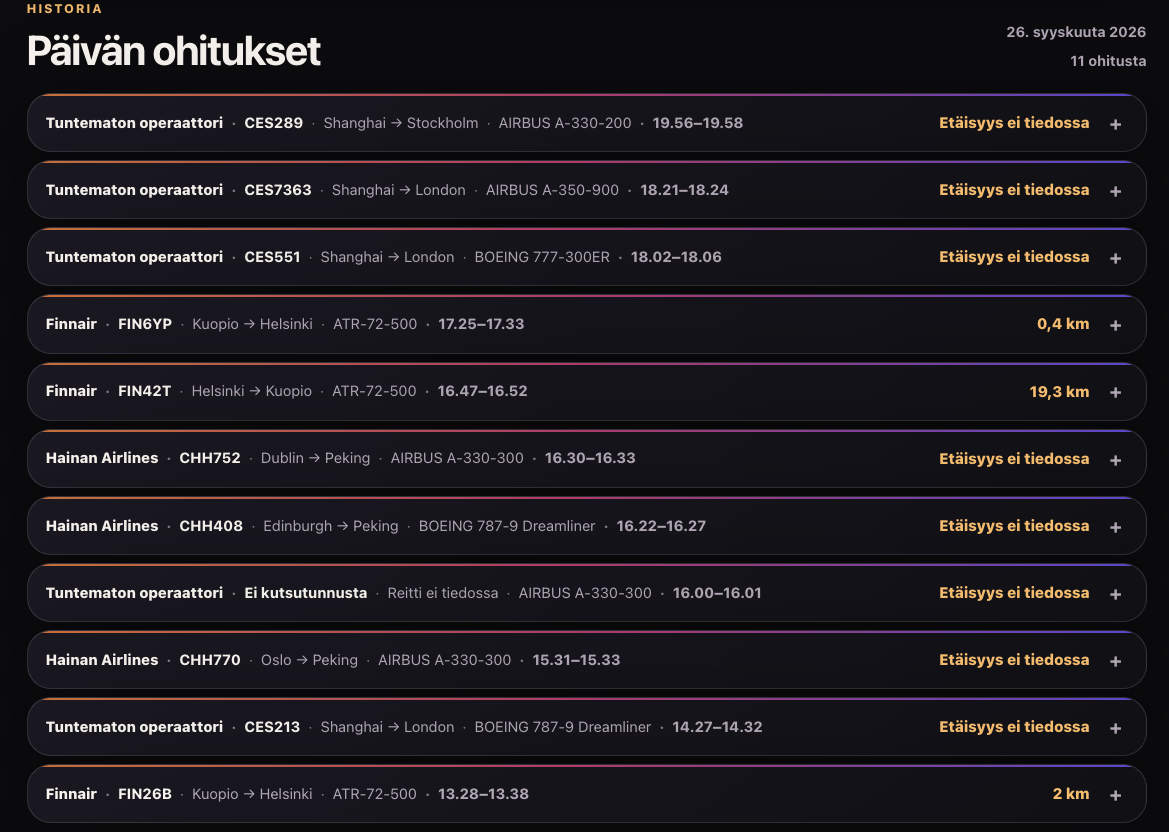
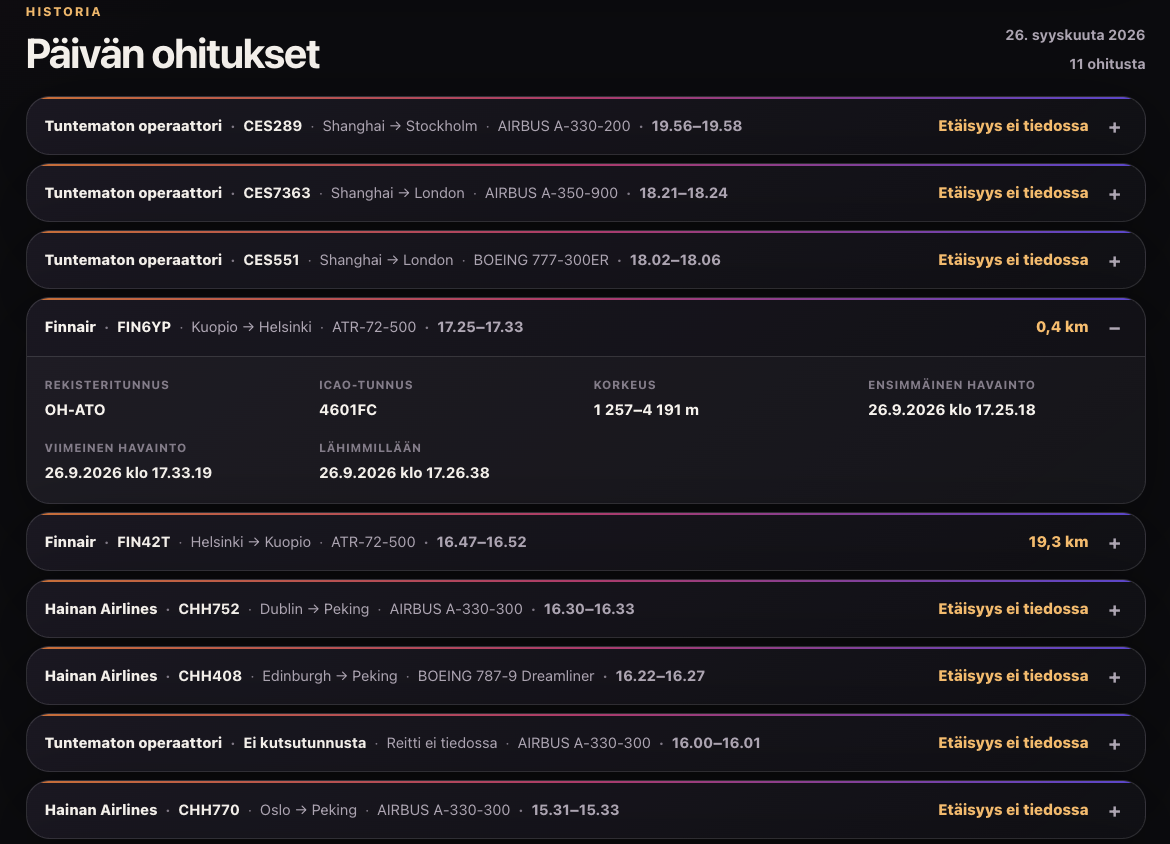
Päivitä ohituskuva avattuun näkymään

diff --git a/projektit.html b/projektit.html
@@ -119,11 +119,11 @@
                 </figure>
                 <p>Päivän ohitukset näkyvät omana listanaan. Samasta koneesta voi kertyä päivän aikana useampi ohitus, eikä jokaiselle saada etäisyyttä.</p>
                 <figure class="project-example">
-                  <a href="images/skyscope-paivan-ohitukset.png" target="_blank" rel="noopener" aria-label="Avaa päivän ohitusten kuvakaappaus suurempana">
-                    <img src="images/skyscope-paivan-ohitukset.png" alt="SkyScopen Päivän ohitukset -osio, jossa näkyy 11 ohitusta." width="1169" height="832" loading="lazy" decoding="async">
+                  <a href="images/skyscope-paivan-ohitukset.png?v=20260926-2" target="_blank" rel="noopener" aria-label="Avaa päivän ohitusten kuvakaappaus suurempana">
+                    <img src="images/skyscope-paivan-ohitukset.png?v=20260926-2" alt="SkyScopen Päivän ohitukset -lista, jossa FIN6YP-ohituksen tarkemmat tiedot on avattu." width="1170" height="844" loading="lazy" decoding="async">
                     <span>Avaa suurempana ↗</span>
                   </a>
-                  <figcaption>Listassa näkyvät havaittujen ohitusten ajat. Etäisyys puuttuu, jos koneelta ei saatu sijaintia.</figcaption>
+                  <figcaption>Tässä yksi päivän ohituksista on avattu. Sen alta näkee koneen tunnisteet, korkeuden sekä havainnon alku- ja loppuajan.</figcaption>
                 </figure>
                 <p>Joillekin lennoille näkyy myös tietokannasta löytyvä reitti. Se on kutsutunnukseen liitetty taustatieto, ei tämän lennon vahvistettu lentosuunnitelma. Jos reittiä ei löydy, sitä ei keksitä.</p>
                 <p>Yhteyden tila on tärkeä osa sivua. Jos vastaanottimelta ei tule uusia tietoja, se näkyy käyttäjälle. Näin vanhoja havaintoja ei ole tarkoitus lukea vahingossa tämänhetkiseksi tilanteeksi.</p>
@@ -234,11 +234,11 @@
                   </figure>
                   <p>Sivulla on erilliset listat koneille, joiden sijainti on saatavilla, ja koneille, joiden sijaintia ei ole. Päivän ohituksissa yhden rivin voi avata ja sulkea ilman että muu lista katoaa. Avatusta rivistä näkee esimerkiksi havaintojen alku- ja loppuajan, lähimmän hetken sekä korkeuden vaihteluvälin. Ajat näytetään Suomen aikavyöhykkeessä.</p>
                   <figure class="project-example">
-                    <a href="images/skyscope-paivan-ohitukset.png" target="_blank" rel="noopener" aria-label="Avaa päivän ohitusten kuvakaappaus suurempana">
-                      <img src="images/skyscope-paivan-ohitukset.png" alt="Päivän ohitusten lista, jossa osa etäisyyksistä puuttuu sijaintitiedon puuttuessa." width="1169" height="832" loading="lazy" decoding="async">
+                    <a href="images/skyscope-paivan-ohitukset.png?v=20260926-2" target="_blank" rel="noopener" aria-label="Avaa päivän ohitusten kuvakaappaus suurempana">
+                      <img src="images/skyscope-paivan-ohitukset.png?v=20260926-2" alt="Päivän ohitusten lista, jossa FIN6YP-riviltä näkyvät tunnisteet, korkeus ja havaintojen ajat." width="1170" height="844" loading="lazy" decoding="async">
                       <span>Avaa suurempana ↗</span>
                     </a>
-                    <figcaption>Yksi rivi tarkoittaa yhtä muodostettua ohitusta. Riviä avaamalla näkee tarkemmat havainnot. Jos sijaintia ei saatu, etäisyyden kohdalla lukee ”Etäisyys ei tiedossa”.</figcaption>
+                    <figcaption>Avattu rivi näyttää esimerkiksi rekisteritunnuksen, ICAO-tunnuksen, korkeuden vaihteluvälin sekä ensimmäisen ja viimeisen havainnon. Jos sijaintia ei saatu, etäisyyden kohdalla lukee ”Etäisyys ei tiedossa”.</figcaption>
                   </figure>
                   <p>Lista ei ole kartta eikä lentoyhtiöiden virallinen aikataulu. Se kertoo, mitä oma vastaanotin on saanut talteen. Sivun luvut vaihtuvat päivän ja kuuluvuuden mukaan.</p>
                   <p>Selain hakee yhteyden tilan, nykyiset koneet, päivän ohitukset ja tilastot erillisistä rajapinnan osoitteista. Jos ohituksia on enemmän kuin yhdelle sivulle mahtuu, se pyytää seuraavat erät. Tämän ansiosta päivästä voidaan näyttää kaikki tarjolla olevat ohitukset ilman, että yksi vastaus kasvaa tarpeettoman suureksi. Koko käyttöliittymä on tehty tavallisella JavaScriptillä ilman erillistä sovelluskehystä.</p>
